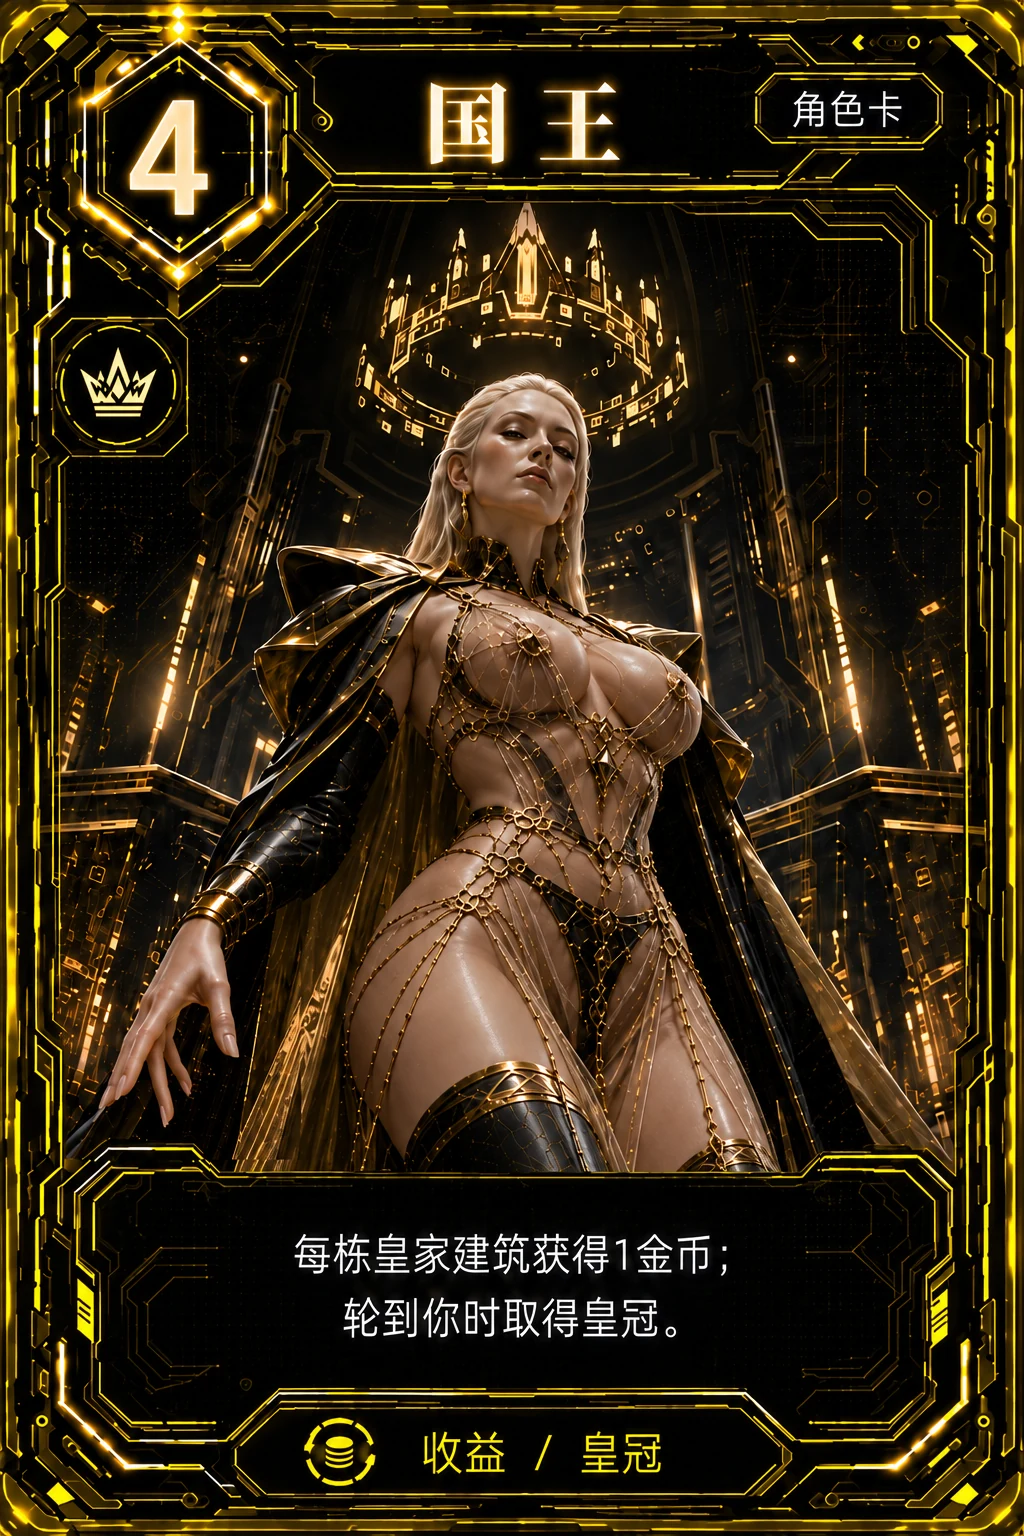
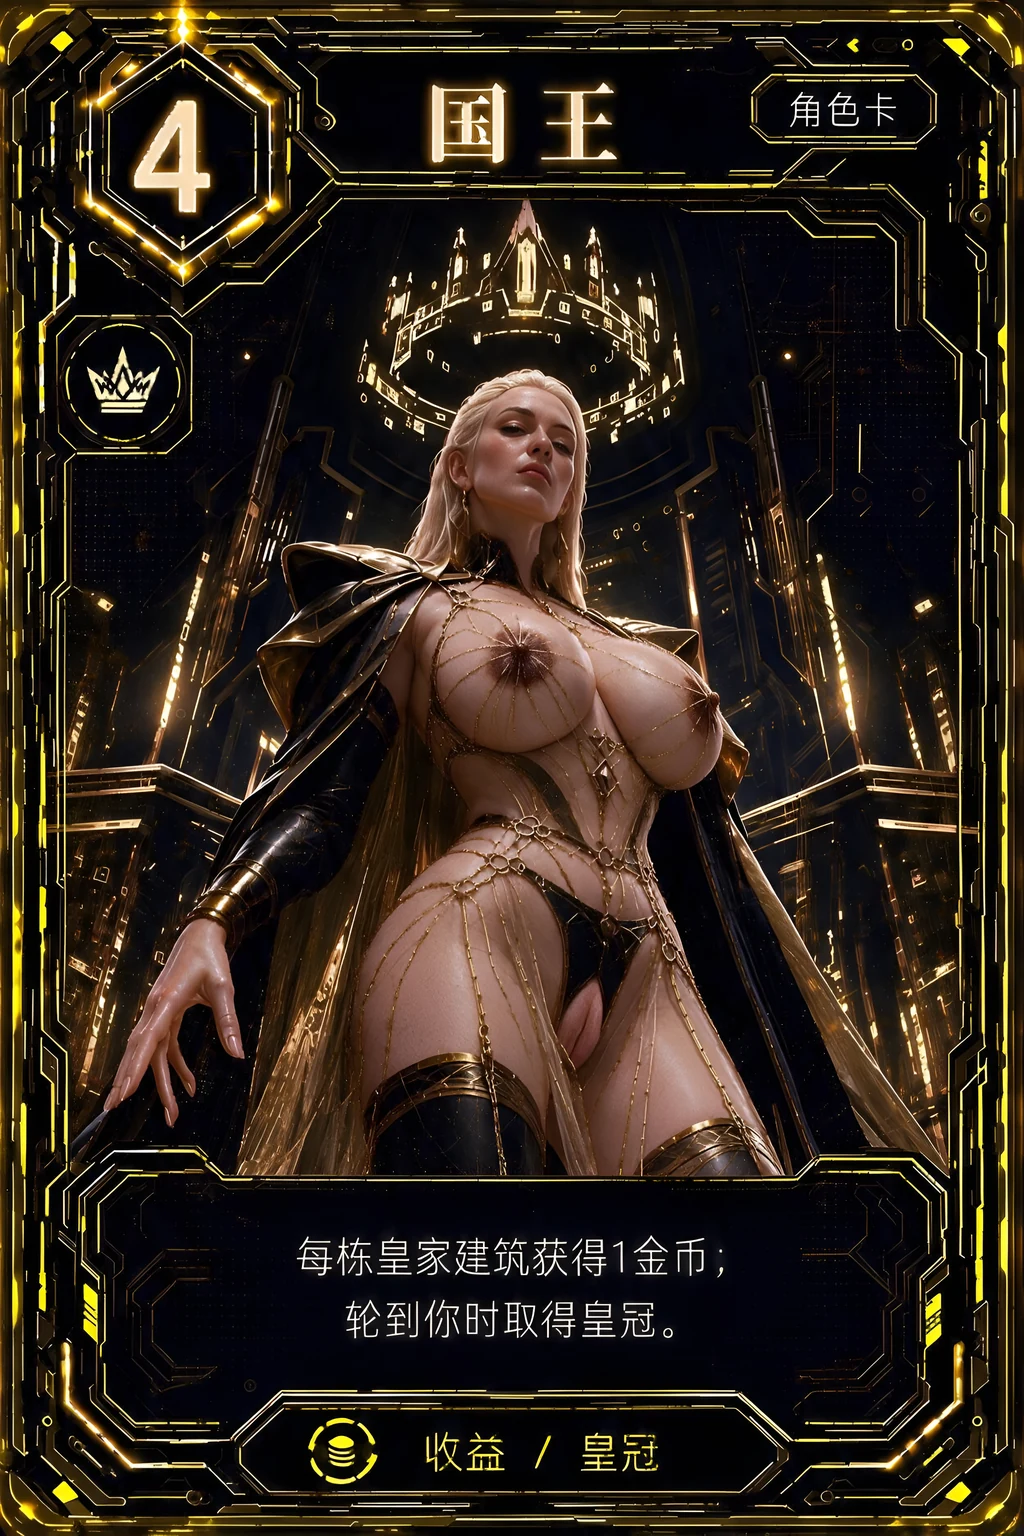
feat(theme): 更新国王角色卡立绘

diff --git a/public/themes/neon/manifest.js b/public/themes/neon/manifest.js
@@ -22,11 +22,11 @@
   ];
 
   function variants(folder, key) {
-    // 墓地卡图曾把建造费用 5 错印成能力支付费用 1，勒索者、法师、主教、生意人和外交官卡图已更新，
+    // 墓地卡图曾把建造费用 5 错印成能力支付费用 1，勒索者、法师、主教、生意人、外交官和国王卡图已更新，
     // 魔术师恢复为原卡图；
     // 单独版本化，让已安装 PWA 绕过旧图片的 HTTP / Service Worker 缓存。
     const versioned = (folder === 'districts' && key === 'graveyard') ||
-      (folder === 'roles' && (key === 'blackmailer' || key === 'magician' || key === 'wizard' || key === 'bishop' || key === 'spy' || key === 'businessman' || key === 'diplomat'));
+      (folder === 'roles' && (key === 'blackmailer' || key === 'magician' || key === 'wizard' || key === 'bishop' || key === 'spy' || key === 'businessman' || key === 'diplomat' || key === 'king'));
     const version = folder === 'roles' && key === 'magician'
       ? '?v=3'
       : (folder === 'roles' && key === 'bishop'
